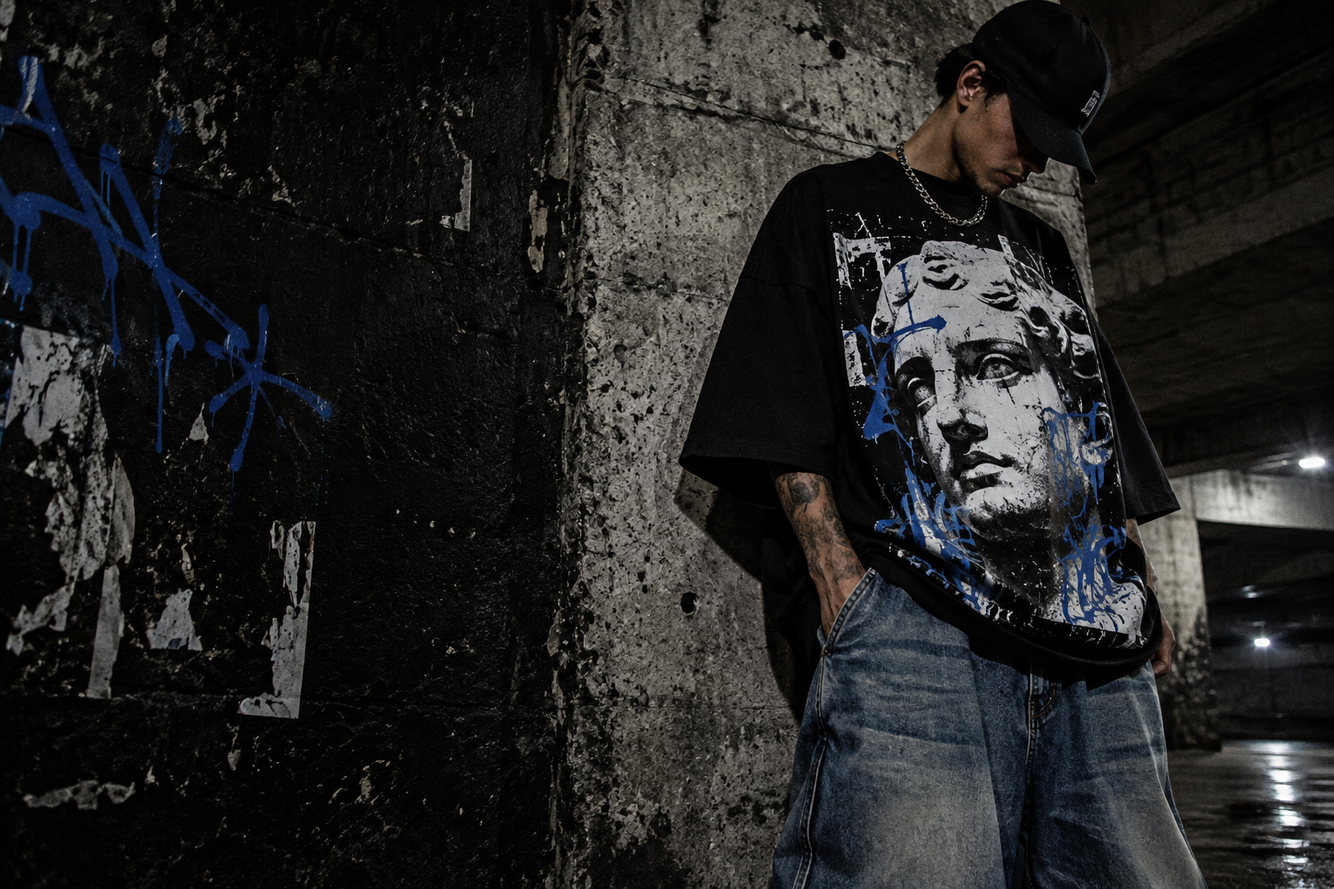
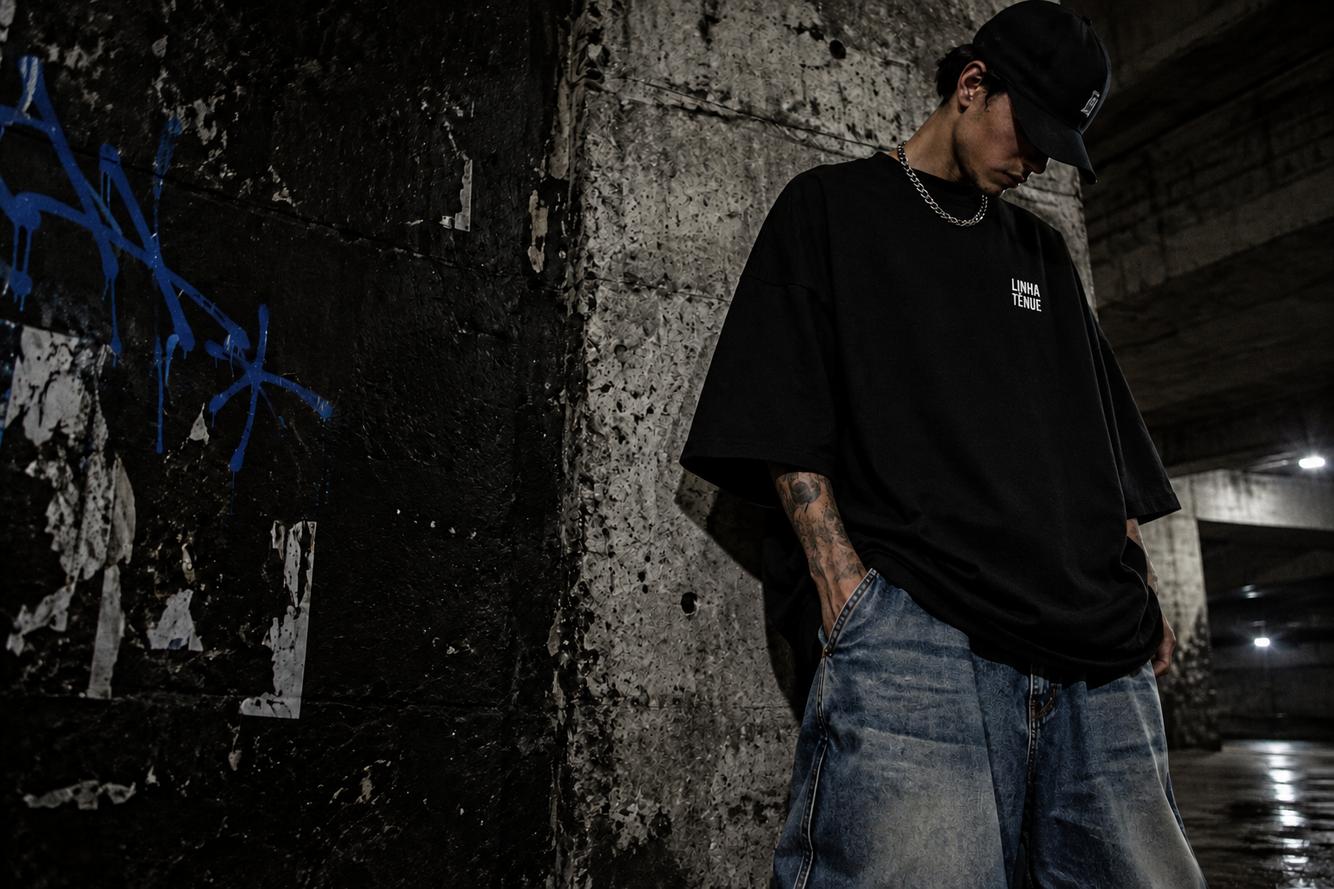
feat: aplica logomarca minimalista nas camisetas e campanha

diff --git a/src/main.jsx b/src/main.jsx
@@ -22,8 +22,8 @@ const notify=t=>setToast(t); const goCategory=c=>{setCategory(c);location.hash='
 const add=p=>{if(!size)return notify('Selecione um tamanho para continuar.');const c=selectedColor||p.color;setCart(old=>{const found=old.find(x=>x.id===p.id&&x.size===size&&x.color===c);return found?old.map(x=>x===found?{...x,qty:x.qty+1}:x):[...old,{id:p.id,size,color:c,qty:1}]});notify('Peça adicionada à sacola.');};
 const changeQty=(index,delta)=>setCart(old=>old.map((x,i)=>i===index?{...x,qty:x.qty+delta}:x).filter(x=>x.qty>0));
 const count=cart.reduce((a,x)=>a+x.qty,0),subtotal=cart.reduce((a,x)=>a+products.find(p=>p.id===x.id).price*x.qty,0);
-const shop=()=>{let filtered=products.filter(p=>(category==='Todos'||(category==='Drops Limitados'?p.tag==='LIMITADO'||p.tag==='NOVO DROP':p.category===category))&&(color==='Todas'||p.color===color)&&(price==='Todos'||p.price<=Number(price))&&p.name.toLowerCase().includes(query.toLowerCase()));if(sort==='Menor preço')filtered.sort((a,b)=>a.price-b.price);if(sort==='Maior preço')filtered.sort((a,b)=>b.price-a.price);return <main className="section shop"><div className="breadcrumb"><a href="#/">Início</a> / Loja</div><div className="shop-banner"><img src={lifestyle} alt="Estampas autorais e modelagem oversized"/><div><span className="eyebrow">DROP 001 / LINHA TÊNUE</span><h1>FORA DO<br/>PADRÃO.</h1></div><span className="shop-mark" aria-hidden="true">✕✕</span></div><div className="shop-categories">{['Todos','Camisetas Boxy','Calças Baggy','Essentials','Drops Limitados'].map(c=><button className={category===c?'active':''} onClick={()=>setCategory(c)} key={c}>{c}</button>)}</div><div className="filters"><span><SlidersHorizontal size={16}/> FILTRAR</span><label>Tamanho <select aria-label="Tamanho" value={sizeFilter} onChange={e=>setSizeFilter(e.target.value)}>{['Todos','P','M','G','GG'].map(x=><option key={x}>{x}</option>)}</select></label><label>Cor <select aria-label="Cor" value={color} onChange={e=>setColor(e.target.value)}>{['Todas','Preto','Off-white','Azul','Grafite'].map(x=><option key={x}>{x}</option>)}</select></label><label>Preço <select aria-label="Preço" value={price} onChange={e=>setPrice(e.target.value)}><option value="Todos">Todos</option><option value="100">Até R$ 100</option><option value="130">Até R$ 130</option><option value="200">Até R$ 200</option></select></label><select aria-label="Ordenar produtos" value={sort} onChange={e=>setSort(e.target.value)}>{['Destaques','Menor preço','Maior preço'].map(x=><option key={x}>{x}</option>)}</select></div><div className="results">{filtered.length} peças {sizeFilter!=='Todos'&&`· tamanho ${sizeFilter} disponível em todas as peças`}<button onClick={()=>{setCategory('Todos');setColor('Todas');setPrice('Todos');setQuery('');setSizeFilter('Todos')}}>Limpar filtros</button></div><div className="product-grid">{filtered.map(p=><ProductCard key={p.id} p={p}/>)}</div>{!filtered.length&&<p className="empty">Nenhuma peça encontrada. Experimente outros filtros.</p>}</main>};
-const product=()=>{const p=products.find(p=>p.id===Number(route.split('/')[2]));if(!p)return <main className="section"><h1>Peça não encontrada.</h1><a href="#/loja">Voltar à loja</a></main>;return <main className="section"><div className="breadcrumb"><a href="#/loja">Loja</a> / {p.name}</div><div className="product-detail"><div className="detail-gallery"><div className="gallery-main"><ProductImage product={p} zoom={galleryView===1}/></div><div className="gallery-thumbs">{[0,1].map(v=><button key={v} className={galleryView===v?"active":""} onClick={()=>setGalleryView(v)} aria-label={v===0?"Vista principal":"Ver detalhe ampliado"}><ProductImage product={p} decorative zoom={v===1}/></button>)}</div><div className="gallery-caption">LINHA TÊNUE® — DROP 001 <span>0{galleryView+1} / 02</span></div></div><div className="detail-copy"><span className="eyebrow">DROP 001 / {p.category.toUpperCase()}</span><h1>{p.name}</h1><p className="detail-price">{money(p.price)}</p><p>Até 3x de {money(p.price/3)} sem juros</p><p className="description">{p.category==='Calças Baggy'?'Modelagem ampla, acabamento lavado e liberdade para acompanhar seu ritmo.':'Modelagem boxy, caimento amplo e presença em cada detalhe. Algodão macio para acompanhar seu ritmo.'} Uma peça feita para expressar sua perspectiva.</p><label className="field-label">COR — {selectedColor||p.color}</label><div className="color-options">{[p.color,...(p.color!=='Preto'?['Preto']:['Off-white'])].map(c=><button key={c} aria-label={c} title={c} onClick={()=>setSelectedColor(c)} className={(selectedColor||p.color)===c?'selected':''} style={{background:c==='Preto'?'#151515':c==='Azul'?'#1d4dff':c==='Grafite'?'#555':'#e6e0d5'}}/>)}</div><div className="size-label"><label className="field-label">TAMANHO</label><button className="measure-link" onClick={()=>{const panel=document.getElementById("medidas");panel.open=true;panel.scrollIntoView({behavior:"smooth",block:"center"})}}>Guia de medidas ↗</button></div><div className="sizes">{['P','M','G','GG'].map(s=><button className={size===s?'selected':''} key={s} onClick={()=>setSize(s)}>{s}</button>)}</div><button className="button dark full" onClick={()=>add(p)}>Adicionar à sacola <Plus size={19}/></button><p className="shipping"><Check size={15}/> Frete grátis acima de R$ 299 · Troca em até 30 dias</p><details><summary>Detalhes da peça <Plus size={16}/></summary><p>Algodão de toque macio. Modelagem ampla, acabamento reforçado e etiqueta autoral. Imagens ilustrativas da coleção conceitual.</p></details><details id="medidas"><summary>Tabela de medidas <Plus size={16}/></summary><p>Medidas da peça em cm. Consulte o caimento antes de escolher.</p><table><thead><tr><th>Tamanho</th><th>{p.category==='Calças Baggy'?'Cintura':'Largura'}</th><th>Comprimento</th></tr></thead><tbody>{['P','M','G','GG'].map((s,i)=><tr key={s}><td>{s}</td><td>{(p.category==='Calças Baggy'?38:56)+i*2}</td><td>{(p.category==='Calças Baggy'?100:68)+i*2}</td></tr>)}</tbody></table></details><details><summary>Trocas e devoluções <Plus size={16}/></summary><p>Você tem até 30 dias para solicitar a troca. Esta é uma loja conceitual: nenhuma transação ou envio será realizado.</p></details></div></div><div className="section-title related"><h2>NA MESMA FREQUÊNCIA.</h2></div><div className="product-grid">{products.filter(x=>x.id!==p.id).slice(0,4).map(x=><ProductCard p={x} key={x.id}/>)}</div></main>};
+const shop=()=>{let filtered=products.filter(p=>(category==='Todos'||(category==='Drops Limitados'?p.tag==='LIMITADO'||p.tag==='NOVO DROP':p.category===category))&&(color==='Todas'||p.color===color)&&(price==='Todos'||p.price<=Number(price))&&p.name.toLowerCase().includes(query.toLowerCase()));if(sort==='Menor preço')filtered.sort((a,b)=>a.price-b.price);if(sort==='Maior preço')filtered.sort((a,b)=>b.price-a.price);return <main className="section shop"><div className="breadcrumb"><a href="#/">Início</a> / Loja</div><div className="shop-banner"><img src={lifestyle} alt="Logomarca discreta e modelagem oversized"/><div><span className="eyebrow">DROP 001 / LINHA TÊNUE</span><h1>FORA DO<br/>PADRÃO.</h1></div><span className="shop-mark" aria-hidden="true">✕✕</span></div><div className="shop-categories">{['Todos','Camisetas Boxy','Calças Baggy','Essentials','Drops Limitados'].map(c=><button className={category===c?'active':''} onClick={()=>setCategory(c)} key={c}>{c}</button>)}</div><div className="filters"><span><SlidersHorizontal size={16}/> FILTRAR</span><label>Tamanho <select aria-label="Tamanho" value={sizeFilter} onChange={e=>setSizeFilter(e.target.value)}>{['Todos','P','M','G','GG'].map(x=><option key={x}>{x}</option>)}</select></label><label>Cor <select aria-label="Cor" value={color} onChange={e=>setColor(e.target.value)}>{['Todas','Preto','Off-white','Azul','Grafite'].map(x=><option key={x}>{x}</option>)}</select></label><label>Preço <select aria-label="Preço" value={price} onChange={e=>setPrice(e.target.value)}><option value="Todos">Todos</option><option value="100">Até R$ 100</option><option value="130">Até R$ 130</option><option value="200">Até R$ 200</option></select></label><select aria-label="Ordenar produtos" value={sort} onChange={e=>setSort(e.target.value)}>{['Destaques','Menor preço','Maior preço'].map(x=><option key={x}>{x}</option>)}</select></div><div className="results">{filtered.length} peças {sizeFilter!=='Todos'&&`· tamanho ${sizeFilter} disponível em todas as peças`}<button onClick={()=>{setCategory('Todos');setColor('Todas');setPrice('Todos');setQuery('');setSizeFilter('Todos')}}>Limpar filtros</button></div><div className="product-grid">{filtered.map(p=><ProductCard key={p.id} p={p}/>)}</div>{!filtered.length&&<p className="empty">Nenhuma peça encontrada. Experimente outros filtros.</p>}</main>};
+const product=()=>{const p=products.find(p=>p.id===Number(route.split('/')[2]));if(!p)return <main className="section"><h1>Peça não encontrada.</h1><a href="#/loja">Voltar à loja</a></main>;return <main className="section"><div className="breadcrumb"><a href="#/loja">Loja</a> / {p.name}</div><div className="product-detail"><div className="detail-gallery"><div className="gallery-main"><ProductImage product={p} zoom={galleryView===1}/></div><div className="gallery-thumbs">{[0,1].map(v=><button key={v} className={galleryView===v?"active":""} onClick={()=>setGalleryView(v)} aria-label={v===0?"Vista principal":"Ver detalhe ampliado"}><ProductImage product={p} decorative zoom={v===1}/></button>)}</div><div className="gallery-caption">LINHA TÊNUE® — DROP 001 <span>0{galleryView+1} / 02</span></div></div><div className="detail-copy"><span className="eyebrow">DROP 001 / {p.category.toUpperCase()}</span><h1>{p.name}</h1><p className="detail-price">{money(p.price)}</p><p>Até 3x de {money(p.price/3)} sem juros</p><p className="description">{p.category==='Calças Baggy'?'Modelagem ampla, acabamento lavado e liberdade para acompanhar seu ritmo.':'Modelagem boxy, caimento amplo e logomarca Linha Tênue aplicada de forma discreta no peito. Algodão macio e visual minimalista para acompanhar seu ritmo.'} Uma peça feita para expressar sua perspectiva.</p><label className="field-label">COR — {selectedColor||p.color}</label><div className="color-options">{[p.color,...(p.color!=='Preto'?['Preto']:['Off-white'])].map(c=><button key={c} aria-label={c} title={c} onClick={()=>setSelectedColor(c)} className={(selectedColor||p.color)===c?'selected':''} style={{background:c==='Preto'?'#151515':c==='Azul'?'#1d4dff':c==='Grafite'?'#555':'#e6e0d5'}}/>)}</div><div className="size-label"><label className="field-label">TAMANHO</label><button className="measure-link" onClick={()=>{const panel=document.getElementById("medidas");panel.open=true;panel.scrollIntoView({behavior:"smooth",block:"center"})}}>Guia de medidas ↗</button></div><div className="sizes">{['P','M','G','GG'].map(s=><button className={size===s?'selected':''} key={s} onClick={()=>setSize(s)}>{s}</button>)}</div><button className="button dark full" onClick={()=>add(p)}>Adicionar à sacola <Plus size={19}/></button><p className="shipping"><Check size={15}/> Frete grátis acima de R$ 299 · Troca em até 30 dias</p><details><summary>Detalhes da peça <Plus size={16}/></summary><p>Algodão de toque macio. Modelagem ampla, acabamento reforçado e etiqueta autoral. Imagens ilustrativas da coleção conceitual.</p></details><details id="medidas"><summary>Tabela de medidas <Plus size={16}/></summary><p>Medidas da peça em cm. Consulte o caimento antes de escolher.</p><table><thead><tr><th>Tamanho</th><th>{p.category==='Calças Baggy'?'Cintura':'Largura'}</th><th>Comprimento</th></tr></thead><tbody>{['P','M','G','GG'].map((s,i)=><tr key={s}><td>{s}</td><td>{(p.category==='Calças Baggy'?38:56)+i*2}</td><td>{(p.category==='Calças Baggy'?100:68)+i*2}</td></tr>)}</tbody></table></details><details><summary>Trocas e devoluções <Plus size={16}/></summary><p>Você tem até 30 dias para solicitar a troca. Esta é uma loja conceitual: nenhuma transação ou envio será realizado.</p></details></div></div><div className="section-title related"><h2>NA MESMA FREQUÊNCIA.</h2></div><div className="product-grid">{products.filter(x=>x.id!==p.id).slice(0,4).map(x=><ProductCard p={x} key={x.id}/>)}</div></main>};
 return <><div className="topbar"><span>FRETE GRÁTIS ACIMA DE R$ 299</span><span>TROCA EM ATÉ 30 DIAS</span><span><i/> DROP LIMITADO — FEITO PARA SER ÚNICO</span></div><header><a className="logo" href="#/">linha tênue<span>®</span><small>BEYOND THE ORDINARY</small></a><nav><a className={route==='/loja'?'current':''} href="#/loja">Loja <ChevronDown size={12}/></a><a href="#/loja" onClick={()=>setCategory('Drops Limitados')}>Drop 001 <span className="nav-dot"/></a><a href="#/sobre">A marca</a></nav><div className="header-actions"><button aria-label="Buscar" onClick={()=>setSearch(!search)}><Search size={20}/></button><a href="#/conta" aria-label="Minha conta"><User size={20}/></a><a href="#/sacola" className="bag" aria-label={`Sacola com ${count} peças`}><ShoppingBag size={19}/><span>SACOLA ({count})</span></a><button className="mobile-toggle" aria-label="Abrir menu" onClick={()=>setMobile(!mobile)}>{mobile?<X/>:<Menu/>}</button></div></header>{mobile&&<nav className="mobile-nav"><a href="#/loja">Loja <ArrowUpRight/></a><a href="#/loja" onClick={()=>setCategory('Drops Limitados')}>Drop 001 <ArrowUpRight/></a><a href="#/sobre">A marca <ArrowUpRight/></a><a href="#/conta">Minha conta <ArrowUpRight/></a></nav>}{search&&<form className="search-panel" onSubmit={e=>{e.preventDefault();location.hash='/loja';setSearch(false)}}><Search/><input autoFocus value={query} onChange={e=>setQuery(e.target.value)} placeholder="Encontre sua próxima peça..." aria-label="Buscar produtos"/><button type="submit">Buscar <ArrowRight size={18}/></button><button type="button" aria-label="Fechar busca" onClick={()=>setSearch(false)}><X/></button></form>}
 {route==='/'?<Home goCategory={goCategory}/>:route==='/loja'?shop():route.startsWith('/produto/')?product():route==='/sobre'?<main><section className="about-hero"><img src={campaign} alt="Editorial Linha Tênue"/><div><span className="eyebrow">INDEPENDENT STREETWEAR LABEL / BRASIL</span><h1>ENTRE O COMUM.<br/>E O EXTRAORDINÁRIO.</h1></div></section><section className="section about-copy"><span className="eyebrow">NOSSA PERSPECTIVA</span><h2>MAIS QUE ROUPAS,<br/>UMA PERSPECTIVA.</h2><p>A Linha Tênue nasce da inquietação, da vontade de criar algo que una estética, atitude e identidade. Nossas peças refletem a linha entre o comum e o extraordinário.</p><p>Criamos peças para quem enxerga além do óbvio. Moda como expressão, rua como inspiração, liberdade como base.</p><a href="#/loja" className="button dark">Vista sua perspectiva <ArrowUpRight size={18}/></a></section></main>:route==='/sacola'?<main className="section cart-page"><span className="eyebrow">SUA PRÓXIMA EXPRESSÃO</span><h1>SUA SACOLA<span className="electric"> ({count})</span></h1>{count?<div className="cart-layout"><div>{cart.map((x,i)=>{const p=products.find(p=>p.id===x.id);return <div className="cart-item" key={`${x.id}-${x.size}-${x.color}`}><a href={`#/produto/${p.id}`}><ProductImage product={p}/></a><div><a href={`#/produto/${p.id}`}><h3>{p.name}</h3></a><p>{x.color} / {x.size}</p><div className="quantity"><button onClick={()=>changeQty(i,-1)} aria-label="Diminuir quantidade"><Minus size={14}/></button>{x.qty}<button onClick={()=>changeQty(i,1)} aria-label="Aumentar quantidade"><Plus size={14}/></button></div><button className="remove" onClick={()=>setCart(cart.filter((_,index)=>index!==i))}>Remover</button></div><strong>{money(p.price*x.qty)}</strong></div>})}</div><aside className="cart-summary"><h2>RESUMO</h2><p><span>Subtotal</span>{money(subtotal)}</p><p><span>Frete</span>{subtotal>=299?'Grátis':'Calculado no checkout'}</p><form onSubmit={e=>{e.preventDefault();if(coupon.trim().toUpperCase()==='LINHA10'){setDiscount(true);notify('Cupom demonstrativo de 10% aplicado.')}else notify('Experimente o cupom LINHA10.')}}><input aria-label="Cupom de desconto" placeholder="Cupom de desconto" value={coupon} onChange={e=>setCoupon(e.target.value)}/><button>Aplicar</button></form>{discount&&<p><span>LINHA10 · 10%</span>−{money(subtotal*.1)}</p>}<p className="total"><span>Total</span>{money(subtotal*(discount?.9:1))}</p><button className="button dark full" onClick={()=>setCheckout(true)}>Finalizar compra <ArrowUpRight size={18}/></button><small>Projeto conceitual. Nenhum pagamento será cobrado.</small><a className="text-link" href="#/loja">Continuar explorando <ArrowRight size={16}/></a></aside></div>:<div className="empty"><ShoppingBag size={40}/><h2>UM ESPAÇO PARA SUA IDENTIDADE.</h2><p>Sua sacola está vazia. Encontre sua próxima peça.</p><a href="#/loja" className="button dark">Explorar coleção <ArrowUpRight size={18}/></a></div>}</main>:route==='/conta'?<main className="section account"><span className="eyebrow">BEM-VINDO À SUA FREQUÊNCIA</span><h1>MINHA CONTA<span className="electric">.</span></h1><p>Seu espaço na Linha Tênue.</p><form onSubmit={e=>{e.preventDefault();notify('Área de conta demonstrativa. Autenticação disponível em uma próxima versão.')}}><label>E-mail<input type="email" placeholder="seu@email.com" required autoComplete="email"/></label><label>Senha<input type="password" placeholder="Sua senha" minLength={6} required autoComplete="current-password"/></label><button className="button dark full">Entrar <ArrowRight size={18}/></button></form><p className="subtle">Interface conceitual · nenhuma credencial é enviada ou armazenada.</p></main>:<main className="section"><h1>PÁGINA NÃO ENCONTRADA.</h1><a href="#/">Voltar ao início</a></main>}
 <section className="newsletter"><div><span className="eyebrow">NÃO FIQUE DO LADO DE FORA.</span><h2>ENTRE NA NOSSA FREQUÊNCIA.</h2><p>Novos drops, ideias e acesso antecipado. Sem ruído.</p></div><form onSubmit={e=>{e.preventDefault();notify('Você está na frequência! Inscrição demonstrativa concluída.');e.currentTarget.reset()}}><label htmlFor="newsletter" className="sr-only">Seu e-mail</label><input id="newsletter" type="email" required placeholder="Seu melhor e-mail"/><button aria-label="Inscrever-se"><ArrowRight/></button></form></section><footer><div className="footer-main"><div><a className="logo" href="#/">linha tênue<span>®</span><small>BEYOND THE ORDINARY</small></a><p>A linha entre o comum<br/>e o extraordinário.</p><span className="footer-location">INDEPENDENT LABEL · BRASIL</span></div><div><h4>EXPLORE</h4><a href="#/loja">Todos os produtos</a><a href="#/loja" onClick={()=>setCategory('Camisetas Boxy')}>Camisetas Boxy</a><a href="#/loja" onClick={()=>setCategory('Calças Baggy')}>Calças Baggy</a><a href="#/loja" onClick={()=>setCategory('Essentials')}>Essentials</a></div><div><h4>LINHA TÊNUE</h4><a href="#/sobre">Nossa história</a><a href="#/conta">Minha conta</a><a href="#/sacola">Minha sacola</a><button onClick={()=>notify('Projeto de portfólio. Atendimento comercial indisponível nesta V1.')}>Fale com a gente ↗</button></div><div><h4>SEM PADRÃO.<br/>SEM LIMITES.</h4><p>Moda como expressão.<br/>Rua como inspiração.</p><Instagram size={20}/></div></div><div className="footer-bottom"><span>© {new Date().getFullYear()} LINHA TÊNUE. TODOS OS DIREITOS RESERVADOS.</span><span>PROJETO CONCEITUAL / PORTFÓLIO</span><a href="#/sobre">FEITO PARA IR ALÉM ↗</a></div><div className="footer-word">LINHA TÊNUE<span>®</span></div></footer>{toast&&<div role="status" className="toast"><Check size={18}/>{toast}<button aria-label="Fechar aviso" onClick={()=>setToast('')}><X size={16}/></button></div>}{checkout&&<div className="modal-backdrop" onClick={()=>setCheckout(false)}><div role="dialog" aria-modal="true" aria-labelledby="checkout-title" className="modal" onClick={e=>e.stopPropagation()}><button className="modal-close" aria-label="Fechar" onClick={()=>setCheckout(false)}><X/></button><span className="eyebrow">VOCÊ CHEGOU À LINHA.</span><h2 id="checkout-title">ISSO É SÓ<br/>O COMEÇO.</h2><p>Esta é uma experiência conceitual. Sua sacola está salva neste navegador, mas nenhum pedido ou pagamento será realizado.</p><button className="button dark" onClick={()=>setCheckout(false)}>Voltar à sacola <ArrowRight size={18}/></button></div></div>}</>;

diff --git a/src/pages/Home.jsx b/src/pages/Home.jsx
@@ -4,14 +4,14 @@ import {campaign,lifestyle,products} from '../data';
 import ProductCard from '../components/ProductCard';
 import ProductImage from '../components/ProductImage';
 const categories=[
- {name:'Camisetas Boxy',sub:'ARTE EM FORMA DE PEÇA',product:products[7]},
+ {name:'Camisetas Boxy',sub:'IDENTIDADE NOS DETALHES',product:products[7]},
  {name:'Calças Baggy',sub:'FEITAS PARA O SEU RITMO',product:products[4]},
  {name:'Essentials',sub:'O ESSENCIAL TEM ATITUDE',product:products[6]},
  {name:'Drops Limitados',sub:'FORA DE QUALQUER PADRÃO',product:products[2]}
 ];
 export default function Home({goCategory}){return <>
  <section className="hero">
-  <img className="hero-photo" src={campaign} alt="Modelo com camiseta boxy preta de estampa gráfica azul e branca, boné e jeans baggy" fetchPriority="high"/>
+  <img className="hero-photo" src={campaign} alt="Modelo com camiseta boxy preta e logomarca discreta Linha Tênue no peito, boné e jeans baggy" fetchPriority="high"/>
   <div className="hero-shade"/>
   <div className="hero-top"><span>LINHA TÊNUE® / INDEPENDENT STREETWEAR</span><span>COLEÇÃO 001 — BRASIL</span></div>
   <div className="hero-copy"><span className="drop-label"><i/> DROP 001 <span>✕✕✕</span></span><h1>SEM<br/>PADRÃO.<br/>SEM LIMITES.</h1><p>A LINHA ENTRE O COMUM<br/>E O EXTRAORDINÁRIO.</p><a className="button light" href="#/loja">Explorar coleção <ArrowRight size={18}/></a></div>
@@ -21,6 +21,6 @@ export default function Home({goCategory}){return <>
  </section>
  <section className="categories section" id="categorias"><div className="category-grid">{categories.map((c,i)=><button className={`category category-${i}`} key={c.name} onClick={()=>goCategory(c.name)}><div className="category-copy"><h3>{c.name}</h3><small>{c.sub}</small></div><div className="category-media"><ProductImage product={c.product} decorative/></div><span className="category-footer"><ArrowUpRight size={20}/><span>EXPLORAR / 0{i+1}</span></span></button>)}</div></section>
  <section className="section new"><div className="section-title"><h2>NOVOS LANÇAMENTOS</h2><p className="section-caption">PEÇAS QUE TRANSITAM<br/>ENTRE O ESSENCIAL E O INESPERADO.</p><a className="text-link" href="#/loja">Ver todos <ArrowRight size={16}/></a></div><div className="product-grid">{[products[0],products[1],products[2],products[4]].map(p=><ProductCard p={p} key={p.id}/>)}</div><div className="drop-footnote"><span>DROP 001 / QUANTIDADES LIMITADAS</span><span>DESIGN INDEPENDENTE. EXPRESSÃO SEM LIMITES.</span></div></section>
- <section className="manifesto"><div className="manifesto-image"><img src={lifestyle} alt="Camiseta boxy com estampa autoral nas costas em editorial urbano" loading="lazy"/><span>LINHA<br/>TÊNUE</span></div><div className="manifesto-copy"><span className="eyebrow">LINHA TÊNUE / MANIFESTO 001</span><h2>MAIS QUE ROUPAS,<br/>UMA PERSPECTIVA.</h2><p>Criamos peças para quem enxerga além do óbvio. Moda como expressão, rua como inspiração, liberdade como base.</p><a href="#/sobre" className="button dark">Conheça a marca <ArrowRight size={18}/></a></div><div className="manifesto-note" aria-hidden="true">ENTRE<br/>O COMUM<br/>E O<br/>EXTRAORDINÁRIO.<Globe size={55} strokeWidth={1}/><span>LT® — NO.001</span></div></section>
- <section className="section social"><div className="section-title"><div><h2>DA RUA PARA O FEED.</h2><span className="eyebrow">@LINHATENUE.STUDIO / #VISTALINHATENUE</span></div><Instagram size={23}/></div><div className="social-grid"><div><img src={campaign} loading="lazy" alt="Campanha com camiseta gráfica azul e branca"/><ArrowUpRight/></div><div><img src={lifestyle} loading="lazy" alt="Detalhe da estampa nas costas"/><ArrowUpRight/></div><div className="social-type"><span>FORA<br/>DO<br/>ÓBVIO.</span><small>LINHA TÊNUE®</small></div><div><img src={campaign} loading="lazy" alt="Detalhes do caimento boxy e jeans baggy"/><ArrowUpRight/></div></div></section>
+ <section className="manifesto"><div className="manifesto-image"><img src={lifestyle} alt="Camiseta boxy preta com logomarca discreta abaixo da gola em editorial urbano" loading="lazy"/><span>LINHA<br/>TÊNUE</span></div><div className="manifesto-copy"><span className="eyebrow">LINHA TÊNUE / MANIFESTO 001</span><h2>MAIS QUE ROUPAS,<br/>UMA PERSPECTIVA.</h2><p>Criamos peças para quem enxerga além do óbvio. Moda como expressão, rua como inspiração, liberdade como base.</p><a href="#/sobre" className="button dark">Conheça a marca <ArrowRight size={18}/></a></div><div className="manifesto-note" aria-hidden="true">ENTRE<br/>O COMUM<br/>E O<br/>EXTRAORDINÁRIO.<Globe size={55} strokeWidth={1}/><span>LT® — NO.001</span></div></section>
+ <section className="section social"><div className="section-title"><div><h2>DA RUA PARA O FEED.</h2><span className="eyebrow">@LINHATENUE.STUDIO / #VISTALINHATENUE</span></div><Instagram size={23}/></div><div className="social-grid"><div><img src={campaign} loading="lazy" alt="Campanha com camiseta preta minimalista e logomarca Linha Tênue"/><ArrowUpRight/></div><div><img src={lifestyle} loading="lazy" alt="Detalhe da logomarca discreta nas costas"/><ArrowUpRight/></div><div className="social-type"><span>FORA<br/>DO<br/>ÓBVIO.</span><small>LINHA TÊNUE®</small></div><div><img src={campaign} loading="lazy" alt="Detalhes do caimento boxy e jeans baggy"/><ArrowUpRight/></div></div></section>
  </>;}

diff --git a/README.md b/README.md
@@ -1,6 +1,6 @@
 # Linha Tênue®
 
-V1 conceitual de e-commerce streetwear em React 19, Vite 6 e Lucide. Layout responsivo underground editorial em preto, papel off-white e azul elétrico. Camisetas boxy de estampa gráfica, jeans baggy, campanha urbana e texturas de impressão. Tipografia Barlow Condensed e Space Grotesk incluída localmente com @fontsource.
+V1 conceitual de e-commerce streetwear em React 19, Vite 6 e Lucide. Layout responsivo underground editorial em preto, papel off-white e azul elétrico. Camisetas boxy minimalistas com aplicação pequena da logomarca Linha Tênue, jeans baggy, campanha urbana e texturas de impressão. Tipografia Barlow Condensed e Space Grotesk incluída localmente com @fontsource.
 
 ## Desenvolvimento
 
@@ -30,4 +30,4 @@ npm run preview
 
 Não há backend, autenticação, inscrição em newsletter, estoque remoto, pagamentos nem envio de pedidos. A tela de conta não transmite nem armazena credenciais. A sacola é local a cada navegador. O checkout explicita o caráter conceitual.
 
-As imagens em `public/images/` foram geradas para a direção visual desta loja conceitual e não representam produtos físicos. A prancha `collection.png` contém as oito peças em uma grade regular 4 × 2, enquadradas pelo componente ProductImage. Campanha e manifesto usam imagens próprias desta V1. Imagens e fontes são servidas localmente, sem dependência de Unsplash ou Google Fonts. Substitua por fotografias e especificações reais antes de uma operação comercial.
+As imagens em `public/images/` foram geradas para a direção visual desta loja conceitual e não representam produtos físicos. A prancha `collection.png` contém as oito peças em uma grade regular 4 × 2, enquadradas pelo componente ProductImage. As camisetas exibem somente a logomarca discreta no peito; a imagem de costas aplica a marca abaixo da gola. Campanha e manifesto usam imagens próprias desta V1. Imagens e fontes são servidas localmente, sem dependência de Unsplash ou Google Fonts. Substitua por fotografias e especificações reais antes de uma operação comercial.
